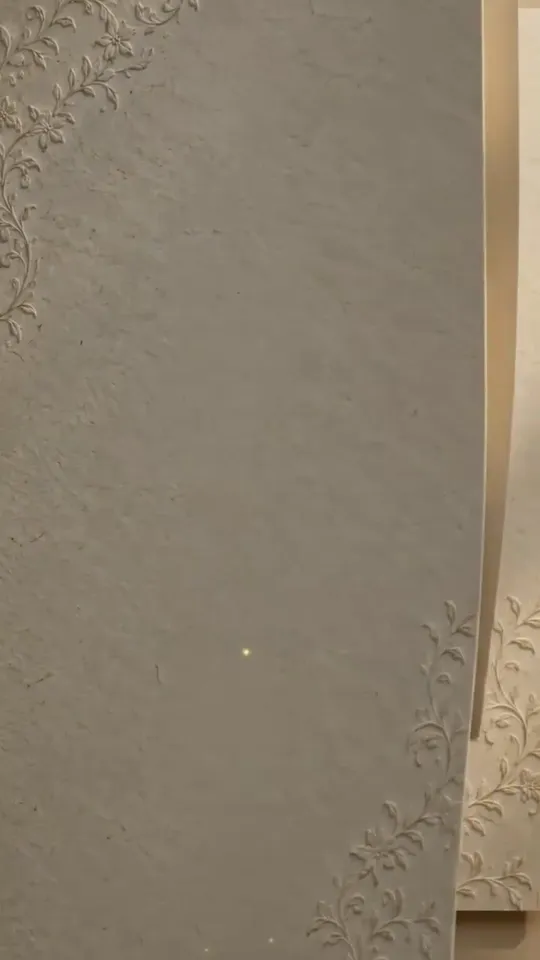
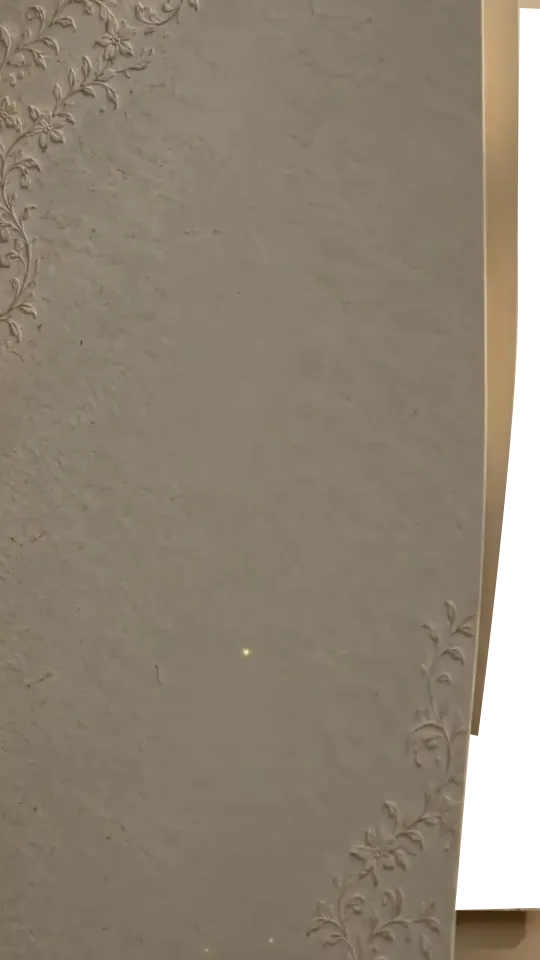
fixed full project

Changed region(s): [[0.8296, 0.0, 1.0, 0.9688]]

diff --git a/src/App.jsx b/src/App.jsx
@@ -7,7 +7,6 @@ import useFrameSequence from './hooks/useFrameSequence';
 import useScrollControl from './hooks/useScrollControl';
 
 // Import wedding invitation sections
-import SectionBrideGroom from './components/SectionBrideGroom';
 import SectionInvitationText from './components/SectionInvitationText';
 import SectionFamilyDetails from './components/SectionFamilyDetails';
 import SectionWeddingDetails from './components/SectionWeddingDetails';
@@ -97,7 +96,6 @@ export default function App() {
         Uses bgwebsite.png as the continuous background.
       */}
       <div className="wedding-details-wrapper website-background">
-        <SectionBrideGroom />
         <SectionInvitationText />
         <SectionFamilyDetails />
         <SectionWeddingDetails />

diff --git a/src/components/InvitationCanvas.jsx b/src/components/InvitationCanvas.jsx
@@ -4,9 +4,9 @@ import React, { forwardRef } from 'react';
  * High-performance Canvas wrapper component.
  * Renders the HTML5 Canvas inside a fluid wrapper that fills the viewport.
  */
-export const InvitationCanvas = forwardRef((props, ref) => {
+export const InvitationCanvas = forwardRef(({ style, ...props }, ref) => {
   return (
-    <div className="canvas-wrapper">
+    <div className="canvas-wrapper" style={style}>
       <canvas
         ref={ref}
         className="invitation-canvas"

diff --git a/src/config/framesConfig.js b/src/config/framesConfig.js
@@ -4,8 +4,8 @@
  */
 
 export const FRAME_CONFIG = {
-  // Total number of frames in the sequence (001.webp to 101.webp)
-  totalFrames: 101,
+  // Total number of frames in the sequence (001.webp to 056.webp)
+  totalFrames: 56,
   
   // Base path from which the images are fetched
   basePath: '/images/',

diff --git a/src/index.css b/src/index.css
@@ -830,6 +830,10 @@ body {
   height: 100vh;
   position: relative;
   overflow: hidden;
+  background-image: url('/bg_top.png');
+  background-repeat: no-repeat;
+  background-size: cover;
+  background-position: center center;
   background-color: var(--color-ivory);
 }
 
